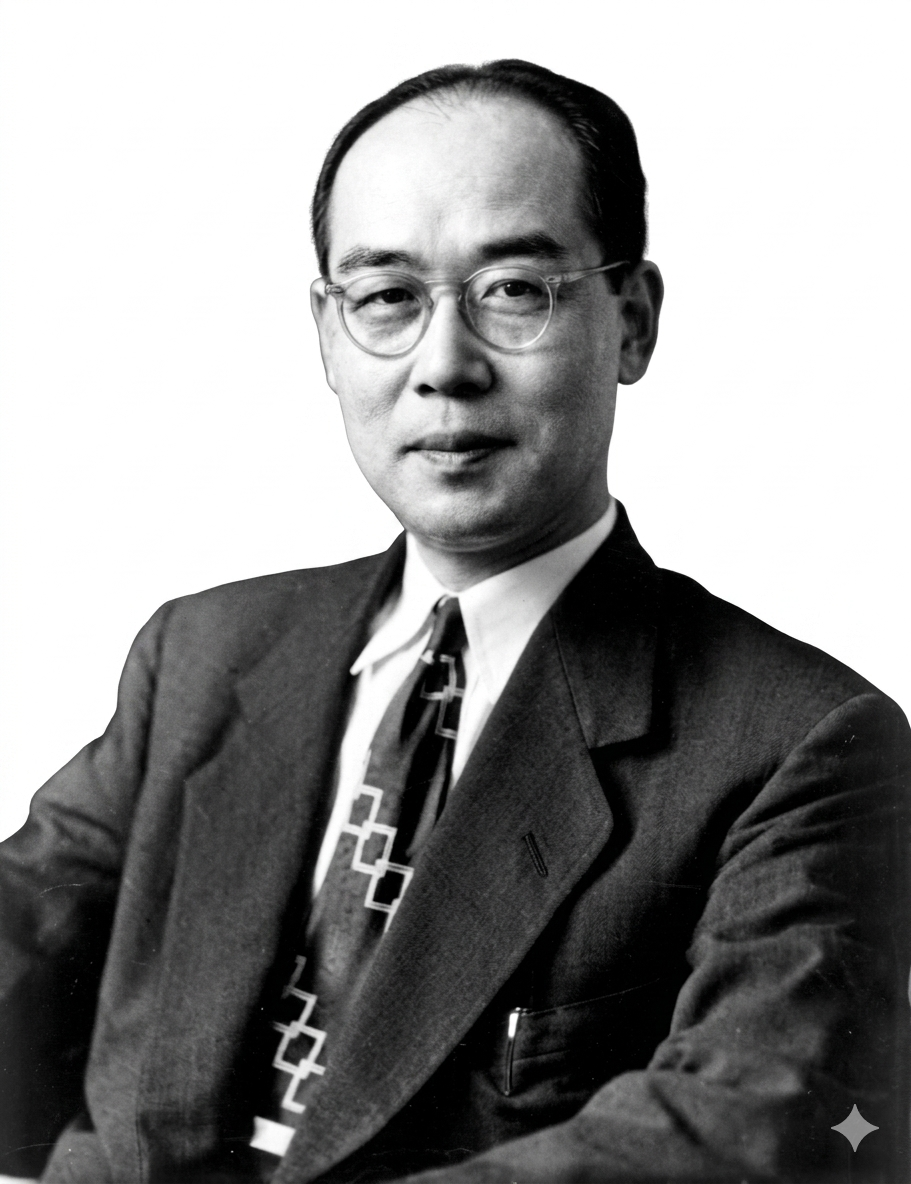
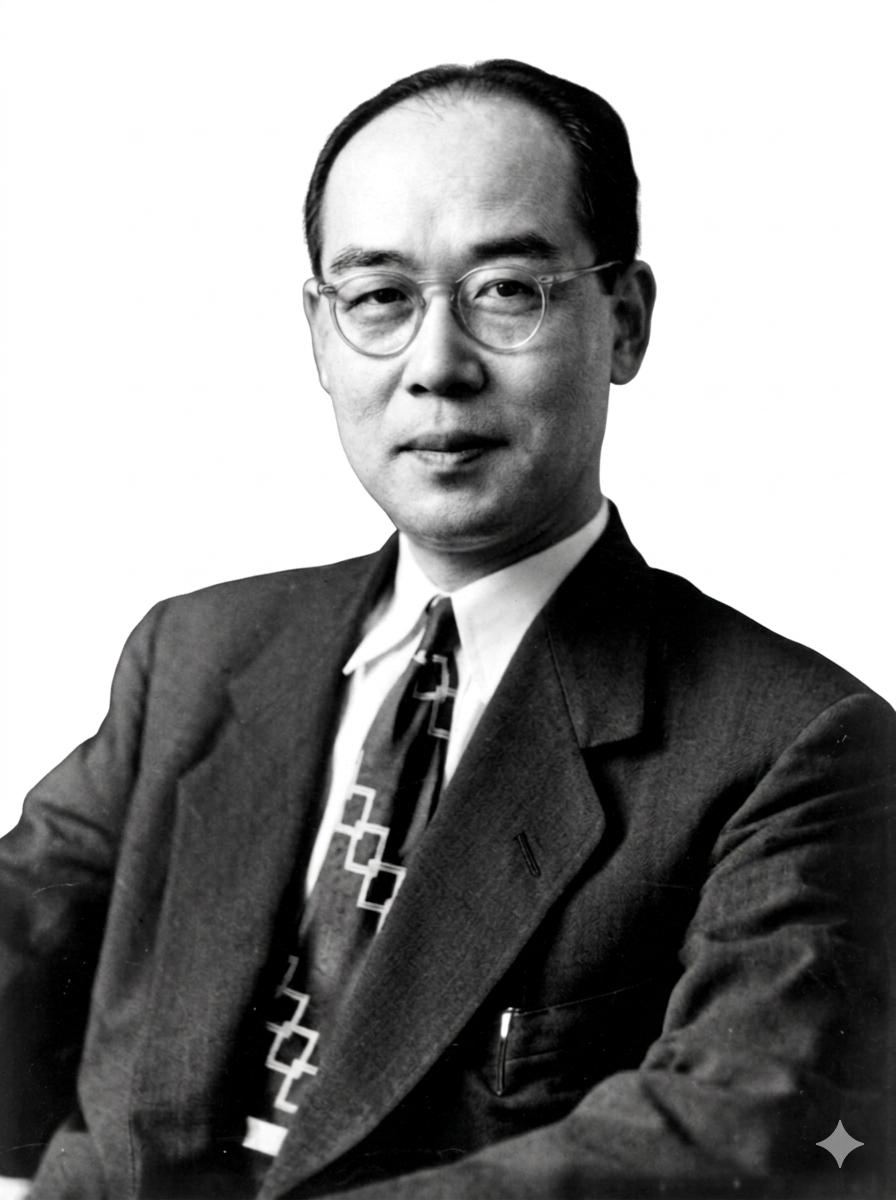
完成拍照引導框與 3:4 比例對齊功能

diff --git a/src/App.css b/src/App.css
@@ -1,3 +1,4 @@
+/* --- 基礎容器 --- */
 .app-container {
   text-align: center;
   background-color: #1a1a1a;
@@ -7,73 +8,73 @@
   font-family: 'Courier New', Courier, monospace;
 }
 
-.webcam-view {
-  border: 5px solid #00ffcc;
-  border-radius: 10px;
-  max-width: 90%;
-}
-
-.photo-container {
-  position: relative;
+/* --- 拍照階段：Webcam 與 引導框 (frame.png) --- */
+.webcam-container {
+  position: relative; 
   display: inline-block;
+  width: 100%;
+  max-width: 500px; /* 限制寬度，適合手機與電腦瀏覽 */
+  margin: 0 auto;
+  aspect-ratio: 3 / 4; /* 強制鎖定 3:4 比例 */
   overflow: hidden;
-  border: 3px solid #fff;
+  border: 5px solid #00ffcc;
+  border-radius: 15px;
+  background-color: #000;
 }
 
-.user-photo {
+.webcam-view {
+  width: 100%;
+  height: 100%;
+  object-fit: cover; /* 填滿容器並裁切多餘比例 */
   display: block;
-  filter: grayscale(100%) sepia(30%); /* 營造昭和舊照片感 */
 }
 
-/* 這裡可以放湯川秀樹的特徵疊加層 */
-/*.yukawa-overlay {
+.camera-guide-overlay {
   position: absolute;
   top: 0;
   left: 0;
   width: 100%;
   height: 100%;
-  background: rgba(0, 255, 204, 0.1);
-  mix-blend-mode: overlay;
-  pointer-events: none;
+  object-fit: fill; /* 強制 frame.png 撐滿 3:4 空間以對齊五官 */
+  pointer-events: none; /* 讓點擊穿透 */
+  opacity: 0.4; 
+  z-index: 10;
 }
-*/
-/* 儲存照片的容器 */
+
+/* --- 結果階段：照片融合容器 --- */
 .photo-container {
-  position: relative; /* 關鍵：讓內部的圖片可以絕對定位 */
+  position: relative;
   display: inline-block;
+  width: 100%;
+  max-width: 500px;
+  aspect-ratio: 3 / 4; /* 與拍照時一致的比例 */
   overflow: hidden;
   border: 4px solid #fff;
   box-shadow: 0 0 20px rgba(0, 255, 204, 0.5);
-  background-color: #000; /* 防止透明背景穿透 */
+  background-color: #000;
 }
 
-/* 觀眾照片 (底層) */
 .user-photo {
+  width: 100%;
+  height: 100%;
+  object-fit: cover; /* 確保擷取的相片填滿 3:4 */
   display: block;
-  max-width: 100%;
-  height: auto;
-  /* 營造古老、理性的基調 */
   filter: grayscale(100%) sepia(20%) contrast(1.1); 
 }
 
-/* 湯川秀樹頭像 (疊加層) */
 .yukawa-face-blend {
-  position: absolute; /* 關鍵：疊在底層圖片上 */
+  position: absolute;
   top: 0;
   left: 0;
   width: 100%;
   height: 100%;
-  object-fit: cover; /* 確保湯川的臉不會變形，會填滿視窗 */
-  
-  /* 關鍵：混合模式。讓兩張臉融合在一起，而不是單純覆蓋 */
-  /* 你可以嘗試 'screen', 'overlay', 或 'multiply' 看看哪種效果最適合你的圖片 */
+  object-fit: cover; /* 確保 3:4 的 yukawa-portrait.png 完美疊合 */
   mix-blend-mode: screen; 
-
-  transition: opacity 0.5s ease-in-out; /* 增加一點淡入的動畫感 */
-  pointer-events: none; /* 讓滑鼠可以穿透，不影響按鈕操作 */
+  transition: opacity 0.5s ease-in-out;
+  pointer-events: none;
 }
 
-/* 結果頁面的裝飾文字 */
+/* --- 介面裝飾與文字 --- */
 .result-overlay-text {
   position: absolute;
   bottom: 10px;
@@ -85,56 +86,54 @@
   text-shadow: 2px 2px 4px rgba(0, 0, 0, 0.8);
   background: rgba(0, 0, 0, 0.5);
   padding: 2px 8px;
+  z-index: 20;
 }
-.btn-capture, .btn-save, .btn-retry {
+
+.progress-bar {
+  font-size: 0.9rem;
+  color: #888;
+  margin-bottom: 15px;
+}
+
+/* --- 按鈕樣式 --- */
+.btn-main, .btn-save, .btn-retry {
   margin-top: 20px;
-  padding: 10px 20px;
+  padding: 12px 24px;
   background: transparent;
   color: #00ffcc;
   border: 2px solid #00ffcc;
   cursor: pointer;
-  font-size: 1.2rem;
+  font-size: 1.1rem;
+  font-family: inherit;
+  transition: 0.3s;
 }
 
-.btn-capture:hover {
+.btn-main:hover, .btn-save:hover, .btn-retry:hover {
   background: #00ffcc;
   color: #1a1a1a;
+  box-shadow: 0 0 10px #00ffcc;
 }
-/* 讓按鈕整齊排列 */
+
 .options-grid {
   display: flex;
   flex-direction: column;
   gap: 15px;
-  margin-top: 30px;
+  margin: 30px auto;
+  max-width: 600px;
 }
 
 .btn-option {
-  padding: 15px;
+  padding: 18px;
   background: rgba(0, 255, 204, 0.1);
   border: 1px solid #00ffcc;
   color: white;
   text-align: left;
   cursor: pointer;
   transition: 0.3s;
+  font-size: 1rem;
 }
 
 .btn-option:hover {
-  background: #00ffcc;
-  color: #1a1a1a;
-}
-
-.progress-bar {
-  font-size: 0.8rem;
-  color: #888;
-  margin-bottom: 10px;
-}
-
-.result-overlay-text {
-  position: absolute;
-  bottom: 10px;
-  right: 10px;
-  font-size: 2rem;
-  font-weight: bold;
-  color: #00ffcc;
-  text-shadow: 2px 2px 4px #000;
+  background: rgba(0, 255, 204, 0.3);
+  transform: translateX(5px);
 }

diff --git a/src/App.jsx b/src/App.jsx
@@ -2,9 +2,12 @@ import React, { useState, useRef } from 'react';
 import Webcam from 'react-webcam';
 import html2canvas from 'html2canvas';
 import './App.css';
-import yukawaPortrait from './assets/yukawa-portrait.png';
 
-// 題庫設定：你可以隨時在這裡修改文字或分數
+// 匯入素材
+import yukawaPortrait from './assets/yukawa-portrait.png';
+import frameGuide from './assets/frame.png'; 
+
+// 題庫設定
 const questions = [
   {
     id: 1,
@@ -52,13 +55,21 @@ function App() {
   const [currentStep, setCurrentStep] = useState(-1); // -1: 歡迎/拍照, 0~3: 題目, 4: 結果
   const [totalScore, setTotalScore] = useState(0);
 
+  // --- 鎖定相機硬體參數 ---
+  const videoConstraints = {
+    width: 1280,
+    height: 960,
+    facingMode: "user"
+  };
+
   // --- 邏輯功能 ---
   
   // 1. 拍照並進入第一題
   const capture = () => {
+    // 獲取當前 Webcam 畫面截圖
     const imageSrc = webcamRef.current.getScreenshot();
     setImgSrc(imageSrc);
-    setCurrentStep(0); // 直接進入第一題
+    setCurrentStep(0); 
   };
 
   // 2. 處理答題
@@ -70,7 +81,11 @@ function App() {
   // 3. 儲存圖片
   const downloadImage = async () => {
     const element = document.getElementById('photo-area');
-    const canvas = await html2canvas(element);
+    // 使用 html2canvas 捕捉包含疊加效果的 div
+    const canvas = await html2canvas(element, {
+      useCORS: true, // 避免圖片跨域問題
+      scale: 2       // 提高下載圖片的解析度
+    });
     const dataUrl = canvas.toDataURL('image/png');
     const link = document.createElement('a');
     link.href = dataUrl;
@@ -89,13 +104,18 @@ function App() {
       {/* 步驟 -1：拍照獲取身分 */}
       {currentStep === -1 && (
         <div className="camera-section">
-          <p className="instruction">請掃描臉部以獲取時空探員身分...</p>
-          <Webcam
-            audio={false}
-            ref={webcamRef}
-            screenshotFormat="image/jpeg"
-            className="webcam-view"
-          />
+          <p className="instruction">請對準引導框以獲取探員身分...</p>
+          <div className="webcam-container">
+            <Webcam
+              audio={false}
+              ref={webcamRef}
+              screenshotFormat="image/jpeg"
+              className="webcam-view"
+              videoConstraints={videoConstraints}
+            />
+            {/* 疊加引導框 */}
+            <img src={frameGuide} alt="Guide Frame" className="camera-guide-overlay" />
+          </div>
           <button onClick={capture} className="btn-main">啟動探員辨識</button>
         </div>
       )}
@@ -126,25 +146,24 @@ function App() {
       {currentStep === questions.length && (
         <div className="result-section">
           <div id="photo-area" className="photo-container">
-            {/* 底層：觀眾的濾鏡照片 */}
+            {/* 底層：觀眾拍照的相片 */}
             <img src={imgSrc} alt="captured" className="user-photo" />
 
-             {/* 頂層：湯川秀樹頭像 (依同步率控制透明度) */}
+            {/* 頂層：湯川秀樹頭像 */}
             <img 
               src={yukawaPortrait} 
               alt="Yukawa Overlay" 
               className="yukawa-face-blend" 
               style={{ 
-              // 關鍵邏輯：同步率 80%，透明度就是 0.8
-              opacity: similarity / 100 
-             }} 
-           />
+                opacity: similarity / 100 
+              }} 
+            />
 
-           {/* 裝飾用的掃描線或文字 */}
-           <div className="result-overlay-text">
-            IDENTITY CONFIRMED: {similarity}%
-           </div>
-        </div>
+            {/* 裝飾文字 */}
+            <div className="result-overlay-text">
+              IDENTITY CONFIRMED: {similarity}%
+            </div>
+          </div>
           
           <div className="result-info">
             <h3>身分確認成功</h3>